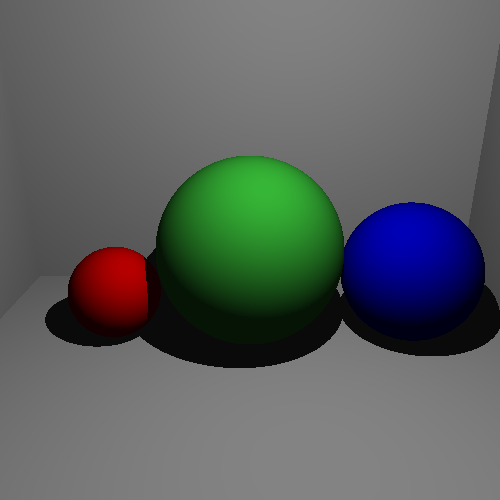
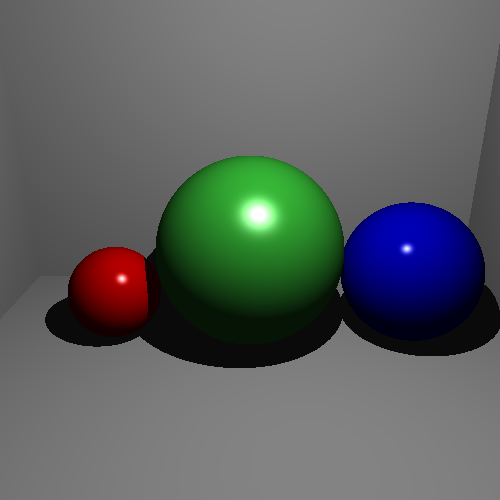
Added phong specular shading

Changed region(s): [[0.45, 0.39, 0.57, 0.48], [0.78, 0.48, 0.84, 0.51], [0.21, 0.54, 0.27, 0.57]]

diff --git a/include/BRDF.h b/include/BRDF.h
@@ -79,4 +79,44 @@ namespace RE
 		// Diffuse color
 		Color cd;
 	};
+
+
+	class GlossySpecular : public BRDF
+	{
+	public:
+		GlossySpecular(const Color& cs, F32 ks, F32 exp);
+
+		virtual ~GlossySpecular();
+
+		// Calculates the BRDF.
+		// @param ei - The intersection.
+		// @param wi - The incoming direction.
+		// @param wo - The outgoing direction.
+		virtual Color F(const ElementIntersection& ei, const VML::Vector& wi, const VML::Vector& wo)const override;
+
+		// Samples the BRDF.
+		// @param ei - The intersection.
+		// @param wi - The incoming direction.
+		// @param wo - The outgoing direction.
+		virtual Color SampleF(const ElementIntersection& ei, const VML::Vector& wi, const VML::Vector& wo)const override;
+
+		// Calculates the bihemispherical reflectance.
+		// @param ei - The intersection.
+		// @param wi - The incoming direction.
+		// @param wo - The outgoing direction.
+		virtual Color Rho(const ElementIntersection& ei, const VML::Vector& wi, const VML::Vector& wo)const override;
+
+		// Calculates the bihemispherical reflectance.
+		// @param ei - The intersection.
+		// @param wo - The outgoing direction.
+		virtual Color Rho(const ElementIntersection& ei, const VML::Vector& wo)const override;
+
+	private:
+		// Specular color
+		Color cs;
+		// Specular multiplier
+		F32 ks;
+		// Specular exponent
+		F32 exp;
+	};
 }

diff --git a/src/Phong.cpp b/src/Phong.cpp
@@ -1,0 +1,51 @@
+#include <Material.h>
+
+#include <World.h>
+
+namespace RE
+{
+	Phong::Phong(F32 ka, F32 kd, const Color& cd, F32 ks, const Color& cs, F32 exp) : 
+		ambientBRDF(ka, cd), diffuseBRDF(kd, cd), specularBRDF(cs, ks, exp)
+	{
+	}
+
+	Phong::~Phong()
+	{
+
+	}
+
+	Color Phong::Shade(const ElementIntersection& ei, const World& world)
+	{
+		VML::Vector wo = ei.ray.GetDirection().negate();
+
+		// Add ambient light
+		Color color = ambientBRDF.Rho(ei, wo) * world.ambientLight.CalculateRadiance(ei);
+
+		// Add color from each light
+		auto lights = world.GetLights();
+		for (auto it = lights.begin(); it != lights.end(); it++)
+		{
+			Light * light = *it;
+			VML::Vector wi = light->GetDirectionFromPoint(ei.rayInt.worldCoords);
+			F32 ndotwi = ei.rayInt.normal.v3Dot(wi);
+
+			if (ndotwi > 0.0f)
+			{
+				Ray shadowRay(ei.rayInt.worldCoords, wi, RAY_EPSILON);
+				ElementIntersection shadowEI;
+				world.CheckRayElementIntersections(shadowEI, shadowRay);
+
+				F32 distanceToLight = light->GetDistanceFromPoint(ei.rayInt.worldCoords);
+
+				bool bNotInShadow = !shadowEI.element || (shadowEI.rayInt.t >= distanceToLight);
+				if (bNotInShadow)
+				{
+					Color f = diffuseBRDF.F(ei, wi, wo) + specularBRDF.F(ei, wi, wo);
+					color += f * light->CalculateRadiance(ei) * ndotwi;
+				}
+			}
+		}
+
+		return color;
+	}
+}

diff --git a/src/GlossySpecular.cpp b/src/GlossySpecular.cpp
@@ -1,0 +1,48 @@
+#include <BRDF.h>
+
+// For ElementIntersection
+#include <World.h>
+
+namespace RE
+{
+	GlossySpecular::GlossySpecular(const Color& cs, F32 ks, F32 exp) : cs(cs), ks(ks), exp(exp)
+	{
+
+	}
+
+	GlossySpecular::~GlossySpecular()
+	{
+
+	}
+
+	Color GlossySpecular::F(const ElementIntersection& ei, const VML::Vector& wi, const VML::Vector& wo)const
+	{
+		Color color;
+		VML::Vector nWi = wi;
+		nWi.negate();
+
+		F32 ndotwi = ei.rayInt.normal.v3Dot(wi);
+		VML::Vector r(nWi + ei.rayInt.normal * 2.0f * ndotwi);
+		F32 rdotwo = r.v3Dot(wo);
+
+		if (rdotwo > 0.0f)
+			color = cs * ks * pow(rdotwo, exp);
+
+		return color;
+	}
+
+	Color GlossySpecular::SampleF(const ElementIntersection& ei, const VML::Vector& wi, const VML::Vector& wo)const
+	{
+		return Color();
+	}
+
+	Color GlossySpecular::Rho(const ElementIntersection& ei, const VML::Vector& wi, const VML::Vector& wo)const
+	{
+		return Color();
+	}
+
+	Color GlossySpecular::Rho(const ElementIntersection& ei, const VML::Vector& wo)const
+	{
+		return Color();
+	}
+}

diff --git a/include/Material.h b/include/Material.h
@@ -37,5 +37,28 @@ namespace RE
 		Lambertian diffuseBRDF;
 	};
 
+
+	class Phong : public Material
+	{
+	public:
+		// Creates a matte material.
+		// @param ka - The ambient factor.
+		// @param kd - The diffuse factor.
+		// @param cd - The diffuse color.
+		// @param ks - The specular factor.
+		// @param cs - The specular color.
+		// @param exp - The specular exponent.
+		Phong(F32 ka, F32 kd, const Color& cd, F32 ks, const Color& cs, F32 exp);
+
+		virtual ~Phong();
+
+		virtual Color Shade(const ElementIntersection& ei, const World& world)override;
+
+	private:
+		Lambertian ambientBRDF;
+		Lambertian diffuseBRDF;
+		GlossySpecular specularBRDF;
+	};
+
 	Material * CreateMaterialFromString(const std::string& desc);
 }

diff --git a/src/Material.cpp b/src/Material.cpp
@@ -41,6 +41,15 @@ namespace RE
 
 			return new Matte(ka, kd, color);
 		}
+		else if (type == "phong")
+		{
+			F32 ka, kd, ks, exp;
+			Color cd, cs;
+			iss >> ka >> kd >> cd.r >> cd.g >> cd.b >> cd.a
+				>> ks >> cs.r >> cs.g >> cs.b >> cs.a >> exp;
+
+			return new Phong(ka, kd, cd, ks, cs, exp);
+		}
 
 		return nullptr;
 	}
